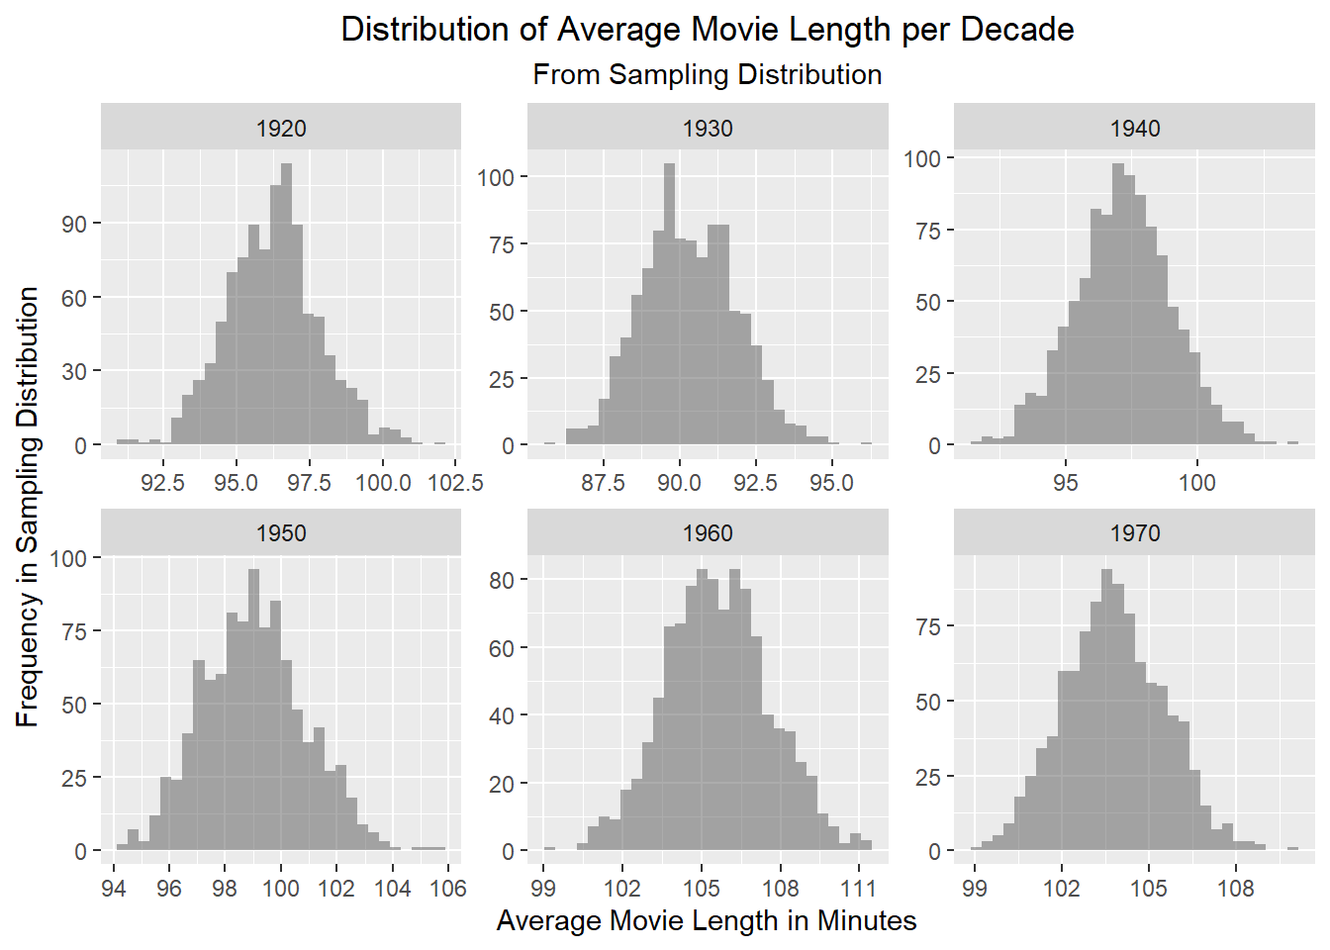
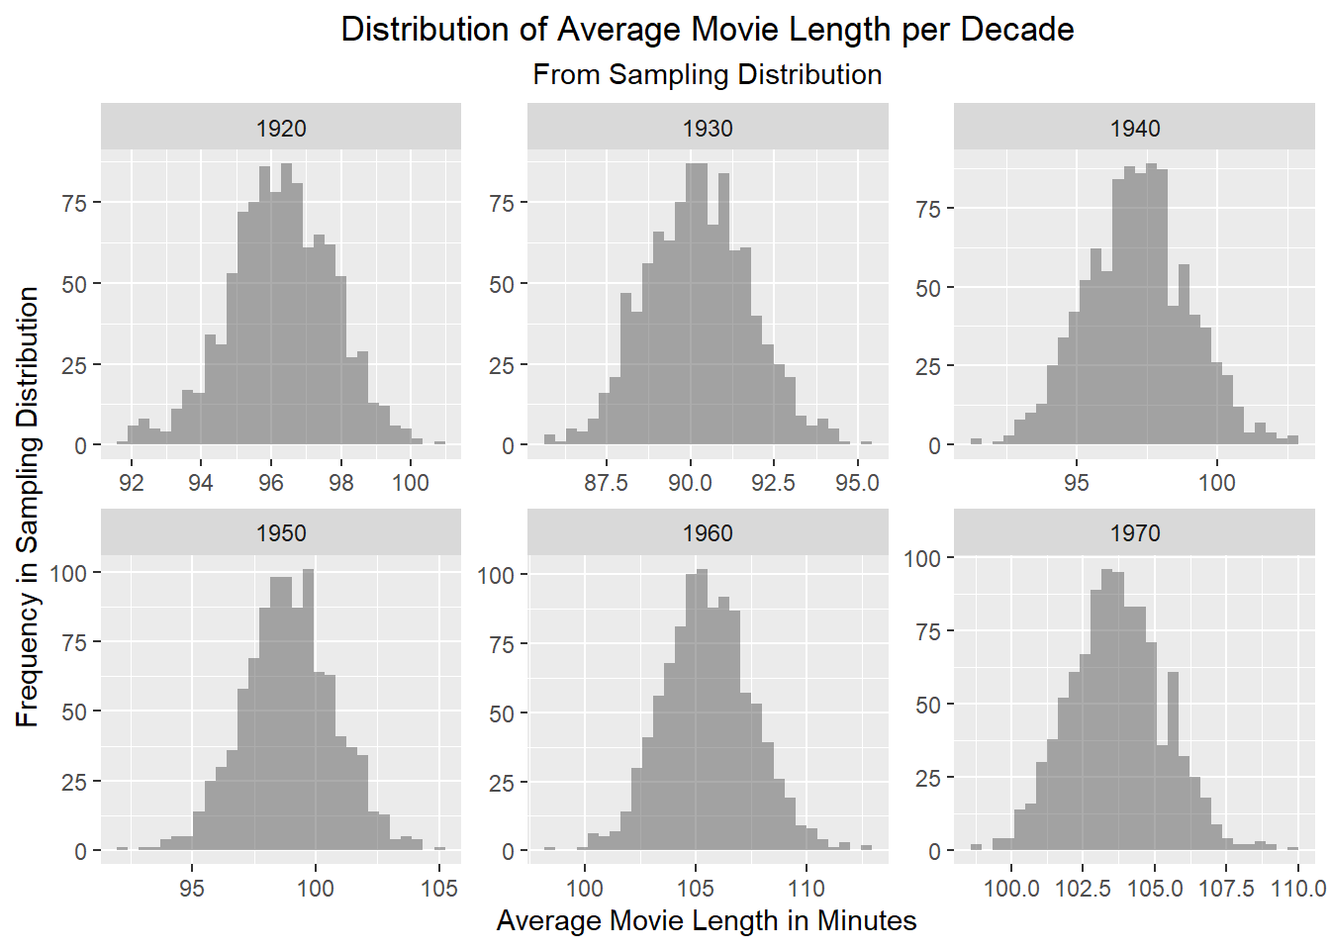
Commit ch2 st1-7

diff --git a/Exercise-05.html b/Exercise-05.html
@@ -102,7 +102,9 @@ pre > code.sourceCode > span > a:first-child::before { text-decoration: underlin
 <div class="sourceCode cell-code" id="cb1"><pre class="sourceCode r code-with-copy"><code class="sourceCode r"><span id="cb1-1"><a href="#cb1-1" aria-hidden="true" tabindex="-1"></a><span class="fu">library</span>(tidyverse)</span>
 <span id="cb1-2"><a href="#cb1-2" aria-hidden="true" tabindex="-1"></a><span class="fu">library</span>(dplyr)</span>
 <span id="cb1-3"><a href="#cb1-3" aria-hidden="true" tabindex="-1"></a><span class="fu">library</span>(ggplot2)</span>
-<span id="cb1-4"><a href="#cb1-4" aria-hidden="true" tabindex="-1"></a><span class="fu">library</span>(mosaic)</span></code><button title="Copy to Clipboard" class="code-copy-button"><i class="bi"></i></button></pre></div>
+<span id="cb1-4"><a href="#cb1-4" aria-hidden="true" tabindex="-1"></a><span class="fu">library</span>(mosaic)</span>
+<span id="cb1-5"><a href="#cb1-5" aria-hidden="true" tabindex="-1"></a><span class="fu">library</span>(tidyr)</span>
+<span id="cb1-6"><a href="#cb1-6" aria-hidden="true" tabindex="-1"></a><span class="fu">library</span>(patchwork)</span></code><button title="Copy to Clipboard" class="code-copy-button"><i class="bi"></i></button></pre></div>
 </div>
 </section>
 <section id="challenge-1" class="level1">
@@ -181,8 +183,8 @@ min(runtimeMinutes))/10), : Ignoring unknown aesthetics: binwidth</code></pre>
 </div>
 </div>
 </section>
-<section id="step-5-sample-mean-and-standard-deviation" class="level2">
-<h2 class="anchored" data-anchor-id="step-5-sample-mean-and-standard-deviation">Step 5: Sample Mean and Standard Deviation</h2>
+<section id="step-5-single-sample-mean-and-standard-deviation" class="level2">
+<h2 class="anchored" data-anchor-id="step-5-single-sample-mean-and-standard-deviation">Step 5: Single Sample Mean and Standard Deviation</h2>
 <div class="cell">
 <div class="sourceCode cell-code" id="cb11"><pre class="sourceCode r code-with-copy"><code class="sourceCode r"><span id="cb11-1"><a href="#cb11-1" aria-hidden="true" tabindex="-1"></a>Sample <span class="ot">&lt;-</span> filtered_data <span class="sc">%&gt;%</span></span>
 <span id="cb11-2"><a href="#cb11-2" aria-hidden="true" tabindex="-1"></a>  <span class="fu">group_by</span>(Decade) <span class="sc">%&gt;%</span></span>
@@ -196,12 +198,12 @@ min(runtimeMinutes))/10), : Ignoring unknown aesthetics: binwidth</code></pre>
 <pre><code># A tibble: 6 × 3
   Decade sample_mean sample_sd
    &lt;dbl&gt;       &lt;dbl&gt;     &lt;dbl&gt;
-1   1920        95.6      26.8
-2   1930        92.8      17.8
-3   1940        96.6      20.7
-4   1950        99.3      19.2
-5   1960       105.       20.8
-6   1970       103.       18.5</code></pre>
+1   1920        96.2      26.4
+2   1930        90.8      14.7
+3   1940        98.3      15.5
+4   1950        96.1      15.2
+5   1960       102.       18.7
+6   1970       102.       15.4</code></pre>
 </div>
 </div>
 </section>
@@ -215,12 +217,12 @@ min(runtimeMinutes))/10), : Ignoring unknown aesthetics: binwidth</code></pre>
 <pre><code># A tibble: 6 × 4
   Decade sample_mean sample_sd sample_se
    &lt;dbl&gt;       &lt;dbl&gt;     &lt;dbl&gt;     &lt;dbl&gt;
-1   1920        95.6      26.8      2.68
-2   1930        92.8      17.8      1.78
-3   1940        96.6      20.7      2.07
-4   1950        99.3      19.2      1.92
-5   1960       105.       20.8      2.08
-6   1970       103.       18.5      1.85</code></pre>
+1   1920        96.2      26.4      2.64
+2   1930        90.8      14.7      1.47
+3   1940        98.3      15.5      1.55
+4   1950        96.1      15.2      1.52
+5   1960       102.       18.7      1.87
+6   1970       102.       15.4      1.54</code></pre>
 </div>
 </div>
 </section>
@@ -236,29 +238,29 @@ min(runtimeMinutes))/10), : Ignoring unknown aesthetics: binwidth</code></pre>
 <span id="cb15-7"><a href="#cb15-7" aria-hidden="true" tabindex="-1"></a>Compare_Table <span class="ot">&lt;-</span> <span class="fu">merge</span>(Results, Sample, <span class="at">by =</span> <span class="st">"Decade"</span>)</span>
 <span id="cb15-8"><a href="#cb15-8" aria-hidden="true" tabindex="-1"></a><span class="fu">print</span>(Compare_Table)</span></code><button title="Copy to Clipboard" class="code-copy-button"><i class="bi"></i></button></pre></div>
 <div class="cell-output cell-output-stdout">
-<pre><code>  Decade  pop_mean   pop_sd   pop_se    z_score   p_score sample_mean sample_sd
-1   1920  96.25658 26.20133 2.620133 -0.2429567 0.8080389       95.62  26.75621
-2   1930  90.30000 17.28879 1.728879  1.4402396 0.1497996       92.79  17.83329
-3   1940  97.20332 19.12372 1.912372 -0.3102560 0.7563663       96.61  20.70080
-4   1950  98.94820 19.20646 1.920646  0.1675498 0.8669374       99.27  19.23058
-5   1960 105.58586 21.23202 2.123202 -0.4925855 0.6223055      104.54  20.78433
-6   1970 103.75000 17.95934 1.795934 -0.6904486 0.4899121      102.51  18.49242
-  sample_se
-1  2.675621
-2  1.783329
-3  2.070080
-4  1.923058
-5  2.078433
-6  1.849242</code></pre>
+<pre><code>  Decade  pop_mean   pop_sd   pop_se     z_score    p_score sample_mean
+1   1920  96.25658 26.20133 2.620133 -0.02159392 0.98277188       96.20
+2   1930  90.30000 17.28879 1.728879  0.30655702 0.75918057       90.83
+3   1940  97.20332 19.12372 1.912372  0.56823425 0.56987591       98.29
+4   1950  98.94820 19.20646 1.920646 -1.49855638 0.13398876       96.07
+5   1960 105.58586 21.23202 2.123202 -1.83960745 0.06582589      101.68
+6   1970 103.75000 17.95934 1.795934 -0.99669599 0.31891209      101.96
+  sample_sd sample_se
+1  26.41013  2.641013
+2  14.69216  1.469216
+3  15.45622  1.545622
+4  15.23702  1.523702
+5  18.69148  1.869148
+6  15.35961  1.535961</code></pre>
 </div>
 </div>
 <p>I used a z-test to compare the means of runtimeMinutes for the population and the single sample. This gave me z-scores for each decade, which I used to calculate the p-value for the z-score for each decade.</p>
 <p><em>For the z-score:</em></p>
-<p>Across all decades, the z-scores range from -1.004 to -0.737. However, the only score that is equal to or near 1 or -1 is the -1.004, all other scores fell around 0, which means that the means are almost exactly equal for each decade.</p>
+<p>Across all decades, the z-scores range from about -1 to 1. However, only a few scores are around 1 or -1, all other scores fell around 0, which means that the means are almost exactly equal for each decade.</p>
 <p><em>For the p-value:</em></p>
 <p>The Null Hypothesis: the means are equal to each other</p>
 <p>The Alternative Hypothesis: the means are significantly different to each other</p>
-<p>Across all cdecades, the p-values range from 0.317 to 0.958. Even the lowest p-value score is high enough that there is not enough evidence to reject the null hypothesis, as it is greater than 0.05. Therefore, there is no significant difference between the means for each decade.</p>
+<p>Across all decades, the p-values are above 0.05. Even the lowest p-value score is high enough that there is not enough evidence to reject the null hypothesis, as it is greater than 0.05. Therefore, there is no significant difference between the means for each decade.</p>
 </section>
 <section id="step-8-sampling-distribution" class="level2">
 <h2 class="anchored" data-anchor-id="step-8-sampling-distribution">Step 8: Sampling Distribution</h2>
@@ -283,16 +285,16 @@ min(runtimeMinutes))/10), : Ignoring unknown aesthetics: binwidth</code></pre>
 <pre><code># A tibble: 6,000 × 3
    Decade DistSample_mean DistSample_sd
     &lt;dbl&gt;           &lt;dbl&gt;         &lt;dbl&gt;
- 1   1920            93.9          24.4
- 2   1920            98.0          26.4
- 3   1920            96.8          27.2
- 4   1920            95.8          27.2
- 5   1920            97.3          25.9
- 6   1920            94.4          24.9
- 7   1920            93.4          24.1
- 8   1920           101.           28.0
- 9   1920            93.0          25.2
-10   1920            96.8          24.9
+ 1   1920            95.8          26.0
+ 2   1920            96.3          27.0
+ 3   1920            93.7          25.7
+ 4   1920            97.6          28.0
+ 5   1920            96.0          26.9
+ 6   1920            98.9          26.5
+ 7   1920            98.3          26.7
+ 8   1920            98.2          26.3
+ 9   1920            96.2          26.0
+10   1920            97.4          27.9
 # ℹ 5,990 more rows</code></pre>
 </div>
 </div>
@@ -311,12 +313,12 @@ min(runtimeMinutes))/10), : Ignoring unknown aesthetics: binwidth</code></pre>
 <pre><code># A tibble: 6 × 3
   Decade distributionsample_mean distributionsample_sd
    &lt;dbl&gt;                   &lt;dbl&gt;                 &lt;dbl&gt;
-1   1920                    96.3                  1.58
-2   1930                    90.3                  1.56
-3   1940                    97.2                  1.83
-4   1950                    99.1                  1.83
-5   1960                   106.                   1.98
-6   1970                   104.                   1.73</code></pre>
+1   1920                    96.3                  1.49
+2   1930                    90.2                  1.54
+3   1940                    97.1                  1.84
+4   1950                    98.9                  1.86
+5   1960                   106.                   2.01
+6   1970                   104.                   1.66</code></pre>
 </div>
 <div class="sourceCode cell-code" id="cb21"><pre class="sourceCode r code-with-copy"><code class="sourceCode r"><span id="cb21-1"><a href="#cb21-1" aria-hidden="true" tabindex="-1"></a>Histogram2 <span class="ot">&lt;-</span> <span class="fu">ggplot</span>(DistSample, <span class="fu">aes</span>(<span class="at">x =</span> DistSample_mean)) <span class="sc">+</span></span>
 <span id="cb21-2"><a href="#cb21-2" aria-hidden="true" tabindex="-1"></a>  <span class="fu">geom_histogram</span>(<span class="fu">aes</span>(</span>
@@ -386,23 +388,23 @@ Ignoring unknown aesthetics: binwidth</code></pre>
 <pre><code># A tibble: 6 × 10
   Decade pop_mean sample_mean distributionsample_mean z_pop_sample p_pop_sample
    &lt;dbl&gt;    &lt;dbl&gt;       &lt;dbl&gt;                   &lt;dbl&gt;        &lt;dbl&gt;        &lt;dbl&gt;
-1   1920     96.3        95.6                    96.3       -0.243        0.808
-2   1930     90.3        92.8                    90.3        1.44         0.150
-3   1940     97.2        96.6                    97.2       -0.310        0.756
-4   1950     98.9        99.3                    99.1        0.168        0.867
-5   1960    106.        105.                    106.        -0.493        0.622
-6   1970    104.        103.                    104.        -0.690        0.490
+1   1920     96.3        96.2                    96.3      -0.0216       0.983 
+2   1930     90.3        90.8                    90.2       0.307        0.759 
+3   1940     97.2        98.3                    97.1       0.568        0.570 
+4   1950     98.9        96.1                    98.9      -1.50         0.134 
+5   1960    106.        102.                    106.       -1.84         0.0658
+6   1970    104.        102.                    104.       -0.997        0.319 
 # ℹ 4 more variables: z_pop_dist &lt;dbl&gt;, p_pop_dist &lt;dbl&gt;, z_sample_dist &lt;dbl&gt;,
 #   p_sample_dist &lt;dbl&gt;</code></pre>
 </div>
 </div>
 <p>I used a z-test to compare the means of runtimeMinutes for the population, the single sample, and the sampling distribution during each decade. I calculated z-scores for population and single sample means, population and sampling distribution means, and single sample and sampling distribution means. This gave me three z-scores for each decade, which I used to calculate the p-value for each z-score for each decade.</p>
 <p><em>For the z-score:</em></p>
-<p>Across all comparisons, the z-scores range from -1.004 to 1.084. However, most scores fell around 0, which means that the three means are almost exactly equal, only two z-scores were above or below 0 by more than a few decimal points.</p>
+<p>Across all comparisons, the z-scores range from about -1 to 1. However, most scores fell around 0, which means that the three means are almost exactly equal, only a few z-scores were above or below 0 by more than a few decimal points.</p>
 <p><em>For the p-value:</em></p>
 <p>The Null Hypothesis: the means are equal to each other</p>
 <p>The Alternative Hypothesis: the means are significantly different to each other</p>
-<p>Across all comparisons, the p-values range from 0.278 to 0.998. Even the lowest p-value score is high enough that there is not enough evidence to reject the null hypothesis. Therefore, there is no significant difference between the means for the population, the single sample, and the sampling distribution.</p>
+<p>Across all comparisons, the p-values are above 0.05. Even the lowest p-value score is high enough that there is not enough evidence to reject the null hypothesis. Therefore, there is no significant difference between the means for the population, the single sample, and the sampling distribution.</p>
 </section>
 </section>
 <section id="challenge-2" class="level1">
@@ -410,8 +412,8 @@ Ignoring unknown aesthetics: binwidth</code></pre>
 <section id="step-1-reading-the-file" class="level2">
 <h2 class="anchored" data-anchor-id="step-1-reading-the-file">Step 1: Reading the file</h2>
 <div class="cell">
-<div class="sourceCode cell-code" id="cb29"><pre class="sourceCode r code-with-copy"><code class="sourceCode r"><span id="cb29-1"><a href="#cb29-1" aria-hidden="true" tabindex="-1"></a>f <span class="ot">&lt;-</span> <span class="st">"https://raw.githubusercontent.com/difiore/ada-datasets/main/zombies.csv"</span></span>
-<span id="cb29-2"><a href="#cb29-2" aria-hidden="true" tabindex="-1"></a>z <span class="ot">&lt;-</span> <span class="fu">read_csv</span>(f)</span></code><button title="Copy to Clipboard" class="code-copy-button"><i class="bi"></i></button></pre></div>
+<div class="sourceCode cell-code" id="cb29"><pre class="sourceCode r code-with-copy"><code class="sourceCode r"><span id="cb29-1"><a href="#cb29-1" aria-hidden="true" tabindex="-1"></a>e <span class="ot">&lt;-</span> <span class="st">"https://raw.githubusercontent.com/difiore/ada-datasets/main/zombies.csv"</span></span>
+<span id="cb29-2"><a href="#cb29-2" aria-hidden="true" tabindex="-1"></a>z <span class="ot">&lt;-</span> <span class="fu">read_csv</span>(e)</span></code><button title="Copy to Clipboard" class="code-copy-button"><i class="bi"></i></button></pre></div>
 <div class="cell-output cell-output-stderr">
 <pre><code>Rows: 1000 Columns: 10
 ── Column specification ────────────────────────────────────────────────────────
@@ -421,6 +423,95 @@ dbl (6): id, height, weight, zombies_killed, years_of_education, age
 
 ℹ Use `spec()` to retrieve the full column specification for this data.
 ℹ Specify the column types or set `show_col_types = FALSE` to quiet this message.</code></pre>
+</div>
+</div>
+</section>
+<section id="step-2-population-mean-and-standard-deviation" class="level2">
+<h2 class="anchored" data-anchor-id="step-2-population-mean-and-standard-deviation">Step 2: Population Mean and Standard Deviation</h2>
+<div class="cell">
+<div class="sourceCode cell-code" id="cb31"><pre class="sourceCode r code-with-copy"><code class="sourceCode r"><span id="cb31-1"><a href="#cb31-1" aria-hidden="true" tabindex="-1"></a>z_long <span class="ot">&lt;-</span> z <span class="sc">%&gt;%</span></span>
+<span id="cb31-2"><a href="#cb31-2" aria-hidden="true" tabindex="-1"></a>  <span class="fu">pivot_longer</span>(<span class="at">cols =</span> <span class="fu">c</span>(<span class="st">"height"</span>, <span class="st">"weight"</span>, <span class="st">"zombies_killed"</span>, <span class="st">"years_of_education"</span>, <span class="st">"age"</span>), </span>
+<span id="cb31-3"><a href="#cb31-3" aria-hidden="true" tabindex="-1"></a>               <span class="at">names_to =</span> <span class="st">"variable"</span>, </span>
+<span id="cb31-4"><a href="#cb31-4" aria-hidden="true" tabindex="-1"></a>               <span class="at">values_to =</span> <span class="st">"value"</span>)</span>
+<span id="cb31-5"><a href="#cb31-5" aria-hidden="true" tabindex="-1"></a></span>
+<span id="cb31-6"><a href="#cb31-6" aria-hidden="true" tabindex="-1"></a>calc_sd <span class="ot">&lt;-</span> <span class="cf">function</span>(x){   </span>
+<span id="cb31-7"><a href="#cb31-7" aria-hidden="true" tabindex="-1"></a>  <span class="fu">sqrt</span>(<span class="fu">sum</span>((x <span class="sc">-</span> <span class="fu">mean</span>(x))<span class="sc">^</span><span class="dv">2</span>) <span class="sc">/</span> <span class="fu">length</span>(x)) }</span>
+<span id="cb31-8"><a href="#cb31-8" aria-hidden="true" tabindex="-1"></a></span>
+<span id="cb31-9"><a href="#cb31-9" aria-hidden="true" tabindex="-1"></a>z_pop_results <span class="ot">&lt;-</span> z_long <span class="sc">%&gt;%</span></span>
+<span id="cb31-10"><a href="#cb31-10" aria-hidden="true" tabindex="-1"></a>  <span class="fu">group_by</span>(variable) <span class="sc">%&gt;%</span></span>
+<span id="cb31-11"><a href="#cb31-11" aria-hidden="true" tabindex="-1"></a>  <span class="fu">summarise</span>(</span>
+<span id="cb31-12"><a href="#cb31-12" aria-hidden="true" tabindex="-1"></a>    <span class="at">z_pop_mean =</span> <span class="fu">mean</span>(value, <span class="at">na.rm =</span> <span class="cn">TRUE</span>), </span>
+<span id="cb31-13"><a href="#cb31-13" aria-hidden="true" tabindex="-1"></a>    <span class="at">z_pop_sd=</span> <span class="fu">calc_sd</span>(value)</span>
+<span id="cb31-14"><a href="#cb31-14" aria-hidden="true" tabindex="-1"></a>  )</span>
+<span id="cb31-15"><a href="#cb31-15" aria-hidden="true" tabindex="-1"></a></span>
+<span id="cb31-16"><a href="#cb31-16" aria-hidden="true" tabindex="-1"></a><span class="fu">print</span>(z_pop_results)</span></code><button title="Copy to Clipboard" class="code-copy-button"><i class="bi"></i></button></pre></div>
+<div class="cell-output cell-output-stdout">
+<pre><code># A tibble: 5 × 3
+  variable           z_pop_mean z_pop_sd
+  &lt;chr&gt;                   &lt;dbl&gt;    &lt;dbl&gt;
+1 age                     20.0      2.96
+2 height                  67.6      4.31
+3 weight                 144.      18.4 
+4 years_of_education       3.00     1.68
+5 zombies_killed           2.99     1.75</code></pre>
+</div>
+</div>
+</section>
+<section id="step-3-boxplots-of-each-variable-by-gender" class="level2">
+<h2 class="anchored" data-anchor-id="step-3-boxplots-of-each-variable-by-gender">Step 3: Boxplots of Each Variable by Gender</h2>
+<div class="cell">
+<div class="sourceCode cell-code" id="cb33"><pre class="sourceCode r code-with-copy"><code class="sourceCode r"><span id="cb33-1"><a href="#cb33-1" aria-hidden="true" tabindex="-1"></a>z_Box1 <span class="ot">&lt;-</span> <span class="fu">ggplot</span>(z_long, <span class="fu">aes</span>(<span class="at">x=</span>gender, <span class="at">y=</span>value, <span class="at">fill=</span>gender)) <span class="sc">+</span></span>
+<span id="cb33-2"><a href="#cb33-2" aria-hidden="true" tabindex="-1"></a>  <span class="fu">geom_boxplot</span>() <span class="sc">+</span>   </span>
+<span id="cb33-3"><a href="#cb33-3" aria-hidden="true" tabindex="-1"></a>  <span class="fu">facet_wrap</span>(<span class="sc">~</span>variable, <span class="at">scales =</span> <span class="st">"free_y"</span>) <span class="sc">+</span>   </span>
+<span id="cb33-4"><a href="#cb33-4" aria-hidden="true" tabindex="-1"></a>  <span class="fu">labs</span>(     </span>
+<span id="cb33-5"><a href="#cb33-5" aria-hidden="true" tabindex="-1"></a>    <span class="at">title =</span> <span class="st">"Boxplot of Variables by Gender"</span>,     </span>
+<span id="cb33-6"><a href="#cb33-6" aria-hidden="true" tabindex="-1"></a>    <span class="at">x =</span> <span class="st">"Gender"</span>,     <span class="at">y =</span> <span class="st">"Value"</span>   ) <span class="sc">+</span>   </span>
+<span id="cb33-7"><a href="#cb33-7" aria-hidden="true" tabindex="-1"></a>  <span class="fu">theme_minimal</span>() <span class="sc">+</span>   </span>
+<span id="cb33-8"><a href="#cb33-8" aria-hidden="true" tabindex="-1"></a>  <span class="fu">theme</span>(     </span>
+<span id="cb33-9"><a href="#cb33-9" aria-hidden="true" tabindex="-1"></a>    <span class="at">plot.title =</span> <span class="fu">element_text</span>(<span class="at">hjust =</span> <span class="fl">0.5</span>),     </span>
+<span id="cb33-10"><a href="#cb33-10" aria-hidden="true" tabindex="-1"></a>    <span class="at">legend.position =</span> <span class="st">"none"</span>     </span>
+<span id="cb33-11"><a href="#cb33-11" aria-hidden="true" tabindex="-1"></a>    )  </span>
+<span id="cb33-12"><a href="#cb33-12" aria-hidden="true" tabindex="-1"></a><span class="fu">print</span>(z_Box1)</span></code><button title="Copy to Clipboard" class="code-copy-button"><i class="bi"></i></button></pre></div>
+<div class="cell-output-display">
+<div>
+<figure class="figure">
+<p><img src="Exercise-05_files/figure-html/unnamed-chunk-14-1.png" class="img-fluid figure-img" width="672"></p>
+</figure>
+</div>
+</div>
+</div>
+</section>
+<section id="step-4-scatter-plots-for-height-and-weight-in-relation-to-age" class="level2">
+<h2 class="anchored" data-anchor-id="step-4-scatter-plots-for-height-and-weight-in-relation-to-age">Step 4: Scatter Plots for Height and Weight in Relation to Age</h2>
+<div class="cell">
+<div class="sourceCode cell-code" id="cb34"><pre class="sourceCode r code-with-copy"><code class="sourceCode r"><span id="cb34-1"><a href="#cb34-1" aria-hidden="true" tabindex="-1"></a>z_Scatter1 <span class="ot">&lt;-</span> <span class="fu">ggplot</span>(z, <span class="fu">aes</span>(<span class="at">x =</span> age, <span class="at">y =</span> weight, <span class="at">color =</span> <span class="fu">factor</span>(gender))) <span class="sc">+</span>   </span>
+<span id="cb34-2"><a href="#cb34-2" aria-hidden="true" tabindex="-1"></a>  <span class="fu">geom_point</span>() <span class="sc">+</span>   </span>
+<span id="cb34-3"><a href="#cb34-3" aria-hidden="true" tabindex="-1"></a>  <span class="fu">geom_smooth</span>(<span class="at">method =</span> <span class="st">"lm"</span>, <span class="at">se =</span> <span class="cn">FALSE</span>, <span class="at">color =</span> <span class="st">"black"</span>, <span class="at">size =</span> <span class="fl">0.5</span>) <span class="sc">+</span>   </span>
+<span id="cb34-4"><a href="#cb34-4" aria-hidden="true" tabindex="-1"></a>  <span class="fu">labs</span>(     <span class="at">title =</span> <span class="st">"Relationship Between Weight and Age"</span>,     <span class="at">x =</span> <span class="st">"Age"</span>,     <span class="at">y =</span> <span class="st">"Weight"</span>,     <span class="at">color =</span> <span class="st">"Gender"</span>   ) <span class="sc">+</span>   </span>
+<span id="cb34-5"><a href="#cb34-5" aria-hidden="true" tabindex="-1"></a>  <span class="fu">theme</span>(<span class="at">plot.title =</span> <span class="fu">element_text</span>(<span class="at">hjust =</span> <span class="fl">0.5</span>), <span class="at">legend.position =</span> <span class="st">"bottom"</span>)  </span></code><button title="Copy to Clipboard" class="code-copy-button"><i class="bi"></i></button></pre></div>
+<div class="cell-output cell-output-stderr">
+<pre><code>Warning: Using `size` aesthetic for lines was deprecated in ggplot2 3.4.0.
+ℹ Please use `linewidth` instead.</code></pre>
+</div>
+<div class="sourceCode cell-code" id="cb36"><pre class="sourceCode r code-with-copy"><code class="sourceCode r"><span id="cb36-1"><a href="#cb36-1" aria-hidden="true" tabindex="-1"></a>z_Scatter2 <span class="ot">&lt;-</span> <span class="fu">ggplot</span>(z, <span class="fu">aes</span>(<span class="at">x =</span> age, <span class="at">y =</span> height, <span class="at">color =</span> <span class="fu">factor</span>(gender))) <span class="sc">+</span>   </span>
+<span id="cb36-2"><a href="#cb36-2" aria-hidden="true" tabindex="-1"></a>  <span class="fu">geom_point</span>() <span class="sc">+</span>   </span>
+<span id="cb36-3"><a href="#cb36-3" aria-hidden="true" tabindex="-1"></a>  <span class="fu">geom_smooth</span>(<span class="at">method =</span> <span class="st">"lm"</span>, <span class="at">se =</span> <span class="cn">FALSE</span>, <span class="at">color =</span> <span class="st">"black"</span>, <span class="at">size =</span> <span class="fl">0.5</span>) <span class="sc">+</span>   </span>
+<span id="cb36-4"><a href="#cb36-4" aria-hidden="true" tabindex="-1"></a>  <span class="fu">labs</span>(     <span class="at">title =</span> <span class="st">"Relationship Between Height and Age"</span>,     <span class="at">x =</span> <span class="st">"Age"</span>,     <span class="at">y =</span> <span class="st">"Height"</span>,     <span class="at">color =</span> <span class="st">"Gender"</span>   ) <span class="sc">+</span>   </span>
+<span id="cb36-5"><a href="#cb36-5" aria-hidden="true" tabindex="-1"></a>  <span class="fu">theme</span>(<span class="at">plot.title =</span> <span class="fu">element_text</span>(<span class="at">hjust =</span> <span class="fl">0.5</span>), <span class="at">legend.position =</span> <span class="st">"bottom"</span>)  </span>
+<span id="cb36-6"><a href="#cb36-6" aria-hidden="true" tabindex="-1"></a></span>
+<span id="cb36-7"><a href="#cb36-7" aria-hidden="true" tabindex="-1"></a>z_Scatter_1_2 <span class="ot">&lt;-</span> z_Scatter1 <span class="sc">+</span> z_Scatter2  </span>
+<span id="cb36-8"><a href="#cb36-8" aria-hidden="true" tabindex="-1"></a></span>
+<span id="cb36-9"><a href="#cb36-9" aria-hidden="true" tabindex="-1"></a><span class="fu">print</span>(z_Scatter_1_2)</span></code><button title="Copy to Clipboard" class="code-copy-button"><i class="bi"></i></button></pre></div>
+<div class="cell-output cell-output-stderr">
+<pre><code>`geom_smooth()` using formula = 'y ~ x'
+`geom_smooth()` using formula = 'y ~ x'</code></pre>
+</div>
+<div class="cell-output-display">
+<div>
+<figure class="figure">
+<p><img src="Exercise-05_files/figure-html/unnamed-chunk-15-1.png" class="img-fluid figure-img" width="672"></p>
+</figure>
+</div>
 </div>
 </div>
 </section>
